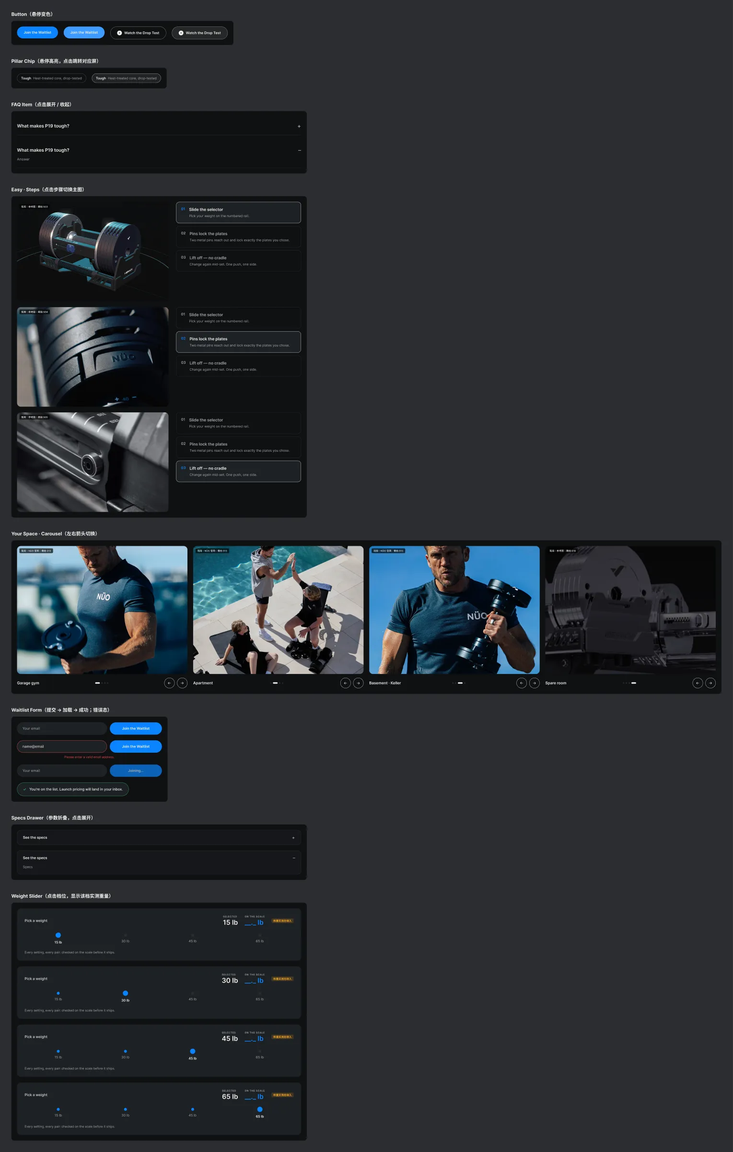
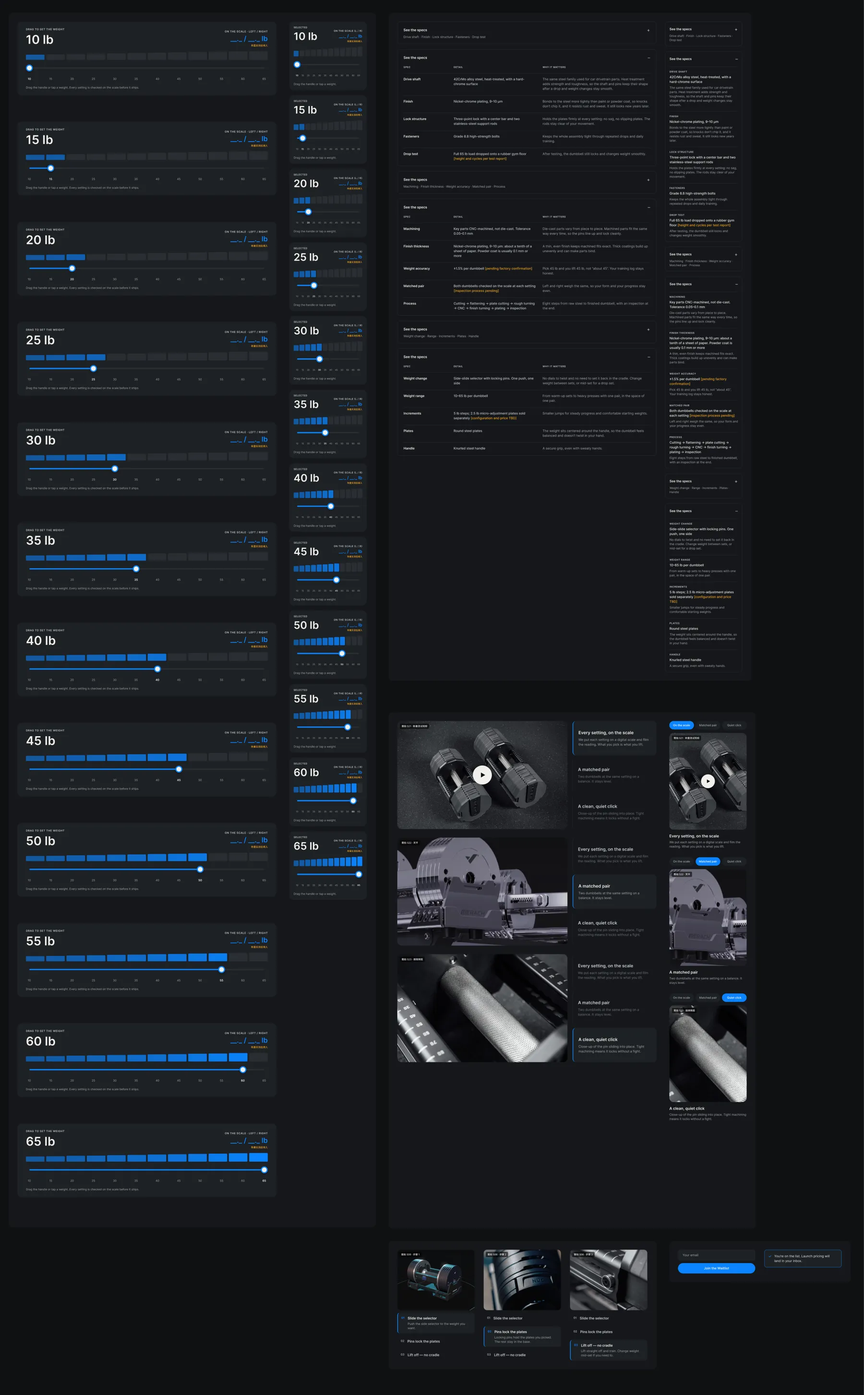
Explore V7: full-screen hero, sticky pillar nav, accurate gallery + drag slider, detailed specs, remove Your Space; add PDP asset list and shots S24–S31
Claude-Session: https://claude.ai/code/session_01RNRjNYdB2DmXKuzbHkJAw4

diff --git a/handoff.html b/handoff.html
@@ -38,38 +38,39 @@ blockquote{margin:12px 0;padding:8px 14px;border-left:3px solid var(--accent);ba
 .shell.one{grid-template-columns:minmax(0,1040px);justify-content:center}
 @media (max-width:900px){.shell{grid-template-columns:1fr}.toc{display:none}main{padding:24px 18px}}
 </style></head><body>
-<header class="top"><div class="in"><b>MERACH P19</b><a href="index.html" class="">总览</a><a href="product.html" class="">产品营销方案</a><a href="imc.html" class="">整合营销方案</a><a href="comp/" class="">对标竞品参数页</a><a href="explore.html" class="">Explore 教育页</a><a href="handoff.html" class="on">开发需求</a><a href="market.html" class="">市场容量</a></div></header><div class="shell one"><main><h1>Explore 教育页 · 开发需求说明（V6）</h1>
-<p class="meta">版本 2026-11-18（V6 深石墨 · 可交互） · 设计稿 <a href="https://www.figma.com/design/44z4t0SOMdf8TVVw1gtSZz/%E6%97%A0%E6%B0%A7P19?node-id=68-608" target="_blank" rel="noopener">PC</a> / <a href="https://www.figma.com/design/44z4t0SOMdf8TVVw1gtSZz/%E6%97%A0%E6%B0%A7P19?node-id=70-679" target="_blank" rel="noopener">Mobile</a> · 可点击原型 <a href="https://www.figma.com/proto/44z4t0SOMdf8TVVw1gtSZz/%E6%97%A0%E6%B0%A7P19?node-id=68-608&amp;starting-point-node-id=68%3A608" target="_blank" rel="noopener">PC</a> / <a href="https://www.figma.com/proto/44z4t0SOMdf8TVVw1gtSZz/%E6%97%A0%E6%B0%A7P19?node-id=70-679&amp;starting-point-node-id=70%3A679" target="_blank" rel="noopener">Mobile</a>。图片左上角黑色标签为拍摄编号，开发时不要还原。</p>
+<header class="top"><div class="in"><b>MERACH P19</b><a href="index.html" class="">总览</a><a href="product.html" class="">产品营销方案</a><a href="imc.html" class="">整合营销方案</a><a href="comp/" class="">对标竞品参数页</a><a href="explore.html" class="">Explore 教育页</a><a href="handoff.html" class="on">开发需求</a><a href="market.html" class="">市场容量</a></div></header><div class="shell one"><main><h1>Explore 教育页 · 开发需求说明（V7）</h1>
+<p class="meta">版本 2026-11-18（V7 深石墨 · 可交互 · 二轮） · 设计稿 <a href="https://www.figma.com/design/44z4t0SOMdf8TVVw1gtSZz/%E6%97%A0%E6%B0%A7P19?node-id=68-608" target="_blank" rel="noopener">PC</a> / <a href="https://www.figma.com/design/44z4t0SOMdf8TVVw1gtSZz/%E6%97%A0%E6%B0%A7P19?node-id=70-679" target="_blank" rel="noopener">Mobile</a> · 可点击原型 <a href="https://www.figma.com/proto/44z4t0SOMdf8TVVw1gtSZz/%E6%97%A0%E6%B0%A7P19?node-id=68-608&amp;starting-point-node-id=68%3A608" target="_blank" rel="noopener">PC</a> / <a href="https://www.figma.com/proto/44z4t0SOMdf8TVVw1gtSZz/%E6%97%A0%E6%B0%A7P19?node-id=70-679&amp;starting-point-node-id=70%3A679" target="_blank" rel="noopener">Mobile</a>。图片左上角黑色标签为拍摄编号，开发时不要还原。</p>
 <h2>一、基本信息</h2>
-<ul><li>页面：P19 Explore 教育页，独立站单页，8 屏 + 等待名单 + 页头页脚。工艺数值统一放在各屏“See the specs”折叠中。</li>
+<ul><li>页面：P19 Explore 教育页，独立站单页，7 屏 + 等待名单 + 页头页脚。工艺数值统一放在各屏“See the specs”折叠中。</li>
 <li>设计基准：PC 1440 宽，内容区 1200，左右边距 120；Mobile 390 宽，左右边距 16。</li>
 <li>断点建议：≥1024 用 PC 布局；768–1023 内容区自适应、并排卡片降为 2 列；&lt;768 用 Mobile 布局。</li>
 <li>屏占比口径：PC 按视口 1440×900 计 1 屏，Mobile 按 390×844 计 1 屏。</li>
 <li>英文主张 Built to Take the Drop 已确定；页面按“主张 → 三支柱”组织。</li></ul>
 <h2>二、屏占比</h2>
-<p>首屏（Header + Hero + 锚点栏）PC 正好 1 屏、Mobile 0.96 屏。Accurate 与 Easy 承载演示与交互，允许超过 1 屏（Easy 约 1.5 屏，如需压缩可将 Drop Set 模块移入 Power Users 前）。</p>
-<div class="tw"><table><thead><tr><th>模块</th><th>锚点</th><th>PC 高度 px</th><th>PC 屏占比</th><th>Mobile 高度 px</th><th>Mobile 屏占比</th></tr></thead><tbody><tr><td>Header（广告位 + 导航）</td><td>—</td><td>101</td><td>0.11</td><td>89</td><td>0.11</td></tr><tr><td>Screen 1 · Hero + 锚点栏</td><td>#top</td><td>799</td><td>0.89（与 Header 合计 1.00）</td><td>724</td><td>0.86（与 Header 合计 0.96）</td></tr><tr><td>Screen 2 · Durable（耐摔）</td><td>#durable</td><td>903</td><td>1.00</td><td>736</td><td>0.87</td></tr><tr><td>Screen 3 · Accurate（高精度）</td><td>#accurate</td><td>1156</td><td>1.28</td><td>883</td><td>1.05</td></tr><tr><td>Screen 4 · Easy（易用 + 细节 + Drop Set）</td><td>#easy</td><td>1357</td><td>1.51</td><td>1053</td><td>1.25</td></tr><tr><td>Screen 5 · How It's Made（工艺短片）</td><td>#made</td><td>940</td><td>1.04</td><td>443</td><td>0.52</td></tr><tr><td>Screen 6 · Power Users</td><td>#power-users</td><td>862</td><td>0.96</td><td>673</td><td>0.80</td></tr><tr><td>Screen 7 · Your Space（P1a）</td><td>#your-space</td><td>792</td><td>0.88</td><td>816</td><td>0.97</td></tr><tr><td>Screen 8 · FAQ</td><td>#faq</td><td>752</td><td>0.84</td><td>667</td><td>0.79</td></tr><tr><td>Waitlist</td><td>#waitlist</td><td>396</td><td>0.44</td><td>299</td><td>0.35</td></tr><tr><td>Footer</td><td>—</td><td>260</td><td>0.29</td><td>213</td><td>0.25</td></tr><tr><td><b>合计</b></td><td></td><td><b>8318</b></td><td><b>9.24 屏</b></td><td><b>6596</b></td><td><b>7.82 屏</b></td></tr></tbody></table></div>
+<p>首屏全屏：Header + Hero 合计正好 1 屏（PC 1440×900、Mobile 390×844）。Header 含支柱导航，支柱导航吸顶。Accurate 与 Easy 承载演示与交互，允许超过 1 屏。</p>
+<div class="tw"><table><thead><tr><th>模块</th><th>锚点</th><th>PC 高度 px</th><th>PC 屏占比</th><th>Mobile 高度 px</th><th>Mobile 屏占比</th></tr></thead><tbody><tr><td>Header（广告位 + 导航 + 支柱导航，吸顶）</td><td>—</td><td>165</td><td>0.18</td><td>142</td><td>0.17</td></tr><tr><td>Screen 1 · Hero（全屏）</td><td>#top</td><td>735</td><td>0.82（与 Header 合计 1.00）</td><td>702</td><td>0.83（与 Header 合计 1.00）</td></tr><tr><td>Screen 2 · Durable（耐摔）</td><td>#durable</td><td>945</td><td>1.05</td><td>788</td><td>0.93</td></tr><tr><td>Screen 3 · Accurate（高精度）</td><td>#accurate</td><td>1372</td><td>1.52</td><td>1361</td><td>1.61</td></tr><tr><td>Screen 4 · Easy（易用 + 细节 + Drop Set）</td><td>#easy</td><td>1399</td><td>1.55</td><td>1218</td><td>1.44</td></tr><tr><td>Screen 5 · How It’s Made（工艺短片）</td><td>#made</td><td>940</td><td>1.04</td><td>443</td><td>0.52</td></tr><tr><td>Screen 6 · Power Users</td><td>#power-users</td><td>862</td><td>0.96</td><td>673</td><td>0.80</td></tr><tr><td>Screen 7 · FAQ</td><td>#faq</td><td>752</td><td>0.84</td><td>667</td><td>0.79</td></tr><tr><td>Waitlist</td><td>#waitlist</td><td>396</td><td>0.44</td><td>297</td><td>0.35</td></tr><tr><td>Footer</td><td>—</td><td>260</td><td>0.29</td><td>213</td><td>0.25</td></tr><tr><td><b>合计</b></td><td></td><td><b>7826</b></td><td><b>8.70 屏</b></td><td><b>6504</b></td><td><b>7.71 屏</b></td></tr></tbody></table></div>
 <h2>三、全局规范</h2>
-<h3>颜色</h3><div class="tw"><table><thead><tr><th>用途</th><th>色值</th><th>使用位置</th></tr></thead><tbody><tr><td>页面底</td><td>#0F1012</td><td>Hero、Tough、Precise、Your Space、FAQ</td></tr><tr><td>区块底</td><td>#16181B</td><td>锚点栏、Craft、Easy、Details</td></tr><tr><td>卡片</td><td>#1E2125</td><td>证据卡、对比图、标准卡</td></tr><tr><td>分隔线</td><td>#2A2E33</td><td>卡片描边、三栏分隔</td></tr><tr><td>主文字</td><td>#F1F0EC</td><td>标题、强调</td></tr><tr><td>辅助文字</td><td>#A3A7AD</td><td>正文、说明</td></tr><tr><td>钢灰</td><td>#C7CCD2</td><td>Eyebrow、图形线条</td></tr><tr><td>主色</td><td>#0A84FF</td><td>按钮、高亮节点、“你得到什么”标签</td></tr><tr><td>待确认标记</td><td>#F5A524</td><td>仅设计稿使用，上线前删除</td></tr></tbody></table></div>
+<h3>颜色</h3><div class="tw"><table><thead><tr><th>用途</th><th>色值</th><th>使用位置</th></tr></thead><tbody><tr><td>页面底</td><td>#0F1012</td><td>Hero、Durable、Accurate、FAQ</td></tr><tr><td>区块底</td><td>#16181B</td><td>支柱导航、规格抽屉、Easy</td></tr><tr><td>卡片</td><td>#1E2125</td><td>证据卡、滑块面板、画廊当前标签</td></tr><tr><td>分隔线</td><td>#2A2E33</td><td>卡片描边、三栏分隔</td></tr><tr><td>主文字</td><td>#F1F0EC</td><td>标题、强调</td></tr><tr><td>辅助文字</td><td>#A3A7AD</td><td>正文、说明</td></tr><tr><td>钢灰</td><td>#C7CCD2</td><td>Eyebrow、图形线条</td></tr><tr><td>主色</td><td>#0A84FF</td><td>按钮、滑块、当前标签与配重片高亮</td></tr><tr><td>待确认标记</td><td>#F5A524</td><td>仅设计稿使用，上线前删除</td></tr></tbody></table></div>
 <h3>字号</h3><p>设计稿字体为 Inter；如独立站已有品牌字体，以站内字体为准，字号与字重按下表。</p><div class="tw"><table><thead><tr><th>层级</th><th>PC</th><th>Mobile</th></tr></thead><tbody><tr><td>H1</td><td>72 / Semi Bold，行高 102%</td><td>44 / Semi Bold</td></tr><tr><td>H2</td><td>46 / Semi Bold</td><td>30 / Semi Bold</td></tr><tr><td>Eyebrow</td><td>12 / Semi Bold，全大写，字距 14%</td><td>11 / Semi Bold</td></tr><tr><td>正文</td><td>18 / Regular，行高 155%</td><td>15 / Regular</td></tr><tr><td>卡片标题</td><td>17 / Semi Bold</td><td>14 / Semi Bold</td></tr><tr><td>说明</td><td>14 / Regular</td><td>12–13 / Regular</td></tr><tr><td>按钮</td><td>15 / Semi Bold，高 52，全圆角</td><td>同 PC，通栏</td></tr></tbody></table></div>
 <p>圆角：图片与卡片 12–16，按钮与胶囊全圆角。屏与屏之间不留间距，靠 #0F1012 / #16181B 交替区分。</p>
 <h2>四、部件说明</h2>
-<div class="tw"><table><thead><tr><th>部件</th><th>位置</th><th>PC</th><th>Mobile</th><th>交互与状态</th></tr></thead><tbody><tr><td>顶部广告位 / 导航栏</td><td>全站</td><td>复用现有 Header</td><td>复用移动端 Header</td><td>不新开发</td></tr><tr><td>Hero</td><td>Screen 1</td><td>左人物 720×735 + 右产品静物 720×735，左侧渐变压暗，文案左下</td><td>人物与产品左右各半 195×260，文案下置</td><td>见交互清单</td></tr><tr><td>锚点栏</td><td>Hero 下方</td><td>高 64，7 个锚点 + 上市时间 + Mini CTA</td><td>高 53，横滑胶囊</td><td>吸顶、滚动高亮、平滑滚动</td></tr><tr><td>视频位 + 弹窗</td><td>Screen 2、3、5、6</td><td>16:9 视频 792×446 / 1200×540；竖版 224×398</td><td>358×201；竖版 180×320；全屏弹窗</td><td>点击播放，关闭停止</td></tr><tr><td>证据卡</td><td>Screen 2、3</td><td>右侧两张产品图卡</td><td>两列</td><td>静态</td></tr><tr><td>See the specs（参数折叠）</td><td>Screen 2、3、4</td><td>通栏折叠条</td><td>通栏</td><td>点击展开 / 收起</td></tr><tr><td>重量选择器</td><td>Screen 3</td><td>4 档点击，显示所选重量与秤上实测</td><td>4 个胶囊</td><td>点击切换；实测值待填</td></tr><tr><td>步骤演示</td><td>Screen 4</td><td>主图 640×420 + 右侧 3 步</td><td>主图 + 纵向 3 步</td><td>点击切换主图</td></tr><tr><td>细节卡</td><td>Screen 4</td><td>3 张产品图 384×160</td><td>横滑 200×140</td><td>静态</td></tr><tr><td>Drop Set 模块</td><td>Screen 4</td><td>卡片内 3 张 140×110</td><td>文字卡</td><td>注释必须保留</td></tr><tr><td>工艺标签</td><td>Screen 5</td><td>3 个胶囊</td><td>—</td><td>静态</td></tr><tr><td>内测用户视频卡</td><td>Screen 6</td><td>5 张 9:16 卡片 + 姓名 / 年限 / 原话</td><td>横滑 4 张</td><td>点击竖版弹窗播放；FTC 披露</td></tr><tr><td>轮播</td><td>Screen 7</td><td>720×540，箭头 + 圆点</td><td>横滑 280×360</td><td>箭头切换 / 拖拽</td></tr><tr><td>FAQ</td><td>Screen 8</td><td>宽 1200</td><td>通栏</td><td>手风琴；FAQPage 结构化数据</td></tr><tr><td>Waitlist 表单</td><td>Waitlist</td><td>输入框 + 按钮横排</td><td>上下堆叠</td><td>默认 / 加载 / 成功 / 错误</td></tr><tr><td>Footer</td><td>全站</td><td>复用</td><td>复用</td><td>不新开发</td></tr></tbody></table></div>
+<div class="tw"><table><thead><tr><th>部件</th><th>位置</th><th>PC</th><th>Mobile</th><th>交互与状态</th></tr></thead><tbody><tr><td>顶部广告位 / 导航栏</td><td>全站</td><td>复用现有 Header</td><td>复用移动端 Header</td><td>随页面滚走</td></tr><tr><td>支柱导航</td><td>Header 下方</td><td>高 64，6 个锚点 + 上市时间 + Mini CTA</td><td>高 53，横滑胶囊</td><td>吸顶（sticky）、滚动高亮、平滑滚动</td></tr><tr><td>Hero</td><td>Screen 1</td><td>高 = 100vh − Header；人物 / 产品各 720 宽铺满；左侧渐变，文案垂直居中</td><td>高 = 100vh − Header；人物 / 产品各 195 宽铺满；底部渐变，文案压在底部</td><td>一个主按钮 + 上市时间</td></tr><tr><td>视频位 + 弹窗</td><td>Screen 2、3、5、6</td><td>16:9；竖版 224×398</td><td>全屏弹窗</td><td>点击播放，关闭停止</td></tr><tr><td>证据卡</td><td>Screen 2</td><td>右侧两张产品图卡</td><td>两列</td><td>静态</td></tr><tr><td>精度画廊（Accurate Proof Gallery）</td><td>Screen 3</td><td>左大图 788×500 + 右侧 3 张标签卡</td><td>标签 + 大图 358×448 + 说明</td><td>点击切换；Mobile 可左右滑动</td></tr><tr><td>拖拽重量滑块（Weight Drag Slider）</td><td>Screen 3</td><td>宽 1200；大数字 + 左 / 右实测读数 + 12 段配重片 + 滑轨 + 刻度</td><td>宽 358，同结构</td><td>拖拽 / 点击刻度，吸附 5 lb</td></tr><tr><td>See the specs（规格抽屉）</td><td>Screen 2、3、4</td><td>收起时显示规格项目名；展开为三列表格</td><td>展开为纵向堆叠</td><td>点击展开 / 收起</td></tr><tr><td>步骤演示</td><td>Screen 4</td><td>主图 640×420 + 右侧 3 步</td><td>主图 358×280 + 纵向 3 步</td><td>点击切换；Mobile 可滑动</td></tr><tr><td>细节卡</td><td>Screen 4</td><td>3 张产品图 384×160</td><td>横滑 200×140</td><td>静态</td></tr><tr><td>Drop Set 模块</td><td>Screen 4</td><td>卡片内 3 张 140×110</td><td>文字卡</td><td>注释必须保留</td></tr><tr><td>工艺标签</td><td>Screen 5</td><td>3 个胶囊</td><td>—</td><td>静态</td></tr><tr><td>内测用户视频卡</td><td>Screen 6</td><td>5 张 9:16 卡片</td><td>横滑 4 张</td><td>点击竖版弹窗播放；FTC 披露</td></tr><tr><td>FAQ</td><td>Screen 7</td><td>宽 1200</td><td>通栏</td><td>手风琴；FAQPage 结构化数据</td></tr><tr><td>Waitlist 表单</td><td>Waitlist</td><td>输入框 + 按钮横排</td><td>上下堆叠</td><td>默认 / 加载 / 成功 / 错误</td></tr><tr><td>Footer</td><td>全站</td><td>复用</td><td>复用</td><td>不新开发</td></tr></tbody></table></div>
 <h2>五、交互清单</h2>
-<div class="tw"><table><thead><tr><th>元素</th><th>交互</th></tr></thead><tbody><tr><td>Join the Waitlist（首屏、锚点栏）</td><td>悬停变色；点击滚动到 #waitlist</td></tr><tr><td>Watch the Drop Test / 各视频播放按钮</td><td>点击弹窗播放：跌落测试、称重测试、工厂短片、内测用户竖版视频；Mobile 为全屏</td></tr><tr><td>三个胶囊 Durable / Accurate / Easy</td><td>点击滚动到对应屏</td></tr><tr><td>锚点栏</td><td>吸顶；滚动高亮；点击平滑滚动</td></tr><tr><td>See the specs</td><td>点击展开 / 收起该屏参数（工艺数值只在此出现）</td></tr><tr><td>重量选择器</td><td>点击 15 / 30 / 45 / 65 lb，显示该档实测重量（称重实测后填入）</td></tr><tr><td>Easy 步骤</td><td>点击 01 / 02 / 03 切换主图</td></tr><tr><td>Your Space 轮播</td><td>箭头切换 4 张；Mobile 横滑</td></tr><tr><td>FAQ 手风琴</td><td>默认展开第 1 条，同时只展开 1 条</td></tr><tr><td>Waitlist 表单</td><td>提交 → 加载 → 成功；错误态</td></tr></tbody></table></div>
+<div class="tw"><table><thead><tr><th>元素</th><th>交互</th></tr></thead><tbody><tr><td>Join the Waitlist（首屏、吸顶导航）</td><td>悬停变色；点击滚动到 #waitlist</td></tr><tr><td>支柱导航（吸顶）</td><td>position: sticky; top: 0，滚动后一直置顶；当前所在屏高亮；点击平滑滚动。锚点：Durable / Accurate / Easy / How It’s Made / Power Users / FAQ</td></tr><tr><td>视频播放按钮</td><td>点击弹窗播放：跌落测试、称重测试、工厂短片、内测用户竖版视频；Mobile 为全屏</td></tr><tr><td>精度画廊</td><td>PC：点击右侧三张标签卡切换左侧大图；Mobile：点击标签或左右滑动切换；称重卡带播放按钮</td></tr><tr><td>拖拽重量滑块</td><td>拖动把手或点击刻度，10–65 lb 每 5 lb 一档，吸附到档位；大数字、配重片高亮、左 / 右实测读数同步变化（实测值称重后填入）</td></tr><tr><td>See the specs</td><td>点击展开 / 收起；展开为“规格 / 参数 / 对用户意味着什么”，PC 三列表格，Mobile 纵向堆叠；三屏各 5 行</td></tr><tr><td>Easy 步骤</td><td>PC 点击 01 / 02 / 03 切换主图；Mobile 点击步骤或左右滑动图片切换</td></tr><tr><td>FAQ 手风琴</td><td>默认展开第 1 条，同时只展开 1 条</td></tr><tr><td>Waitlist 表单</td><td>提交 → 加载 → 成功；错误态（PC 与 Mobile 一致）</td></tr></tbody></table></div>
 <p>所有组件的状态（悬停、展开、切换、表单流程）已在 Figma 组件区全部展开，可直接在原型中点击体验：</p>
-<img src="assets/explore-v5-components.webp" alt="Explore V5 交互组件与状态" loading="lazy">
+<img src="assets/explore-v5-components.webp" alt="Explore V7 交互组件与状态" loading="lazy">
 <h2>六、图片与视频位</h2>
 <p>请按下表尺寸出 2 倍图，格式 WebP；视频提供 MP4（H.264）与封面图。当前全部为占位图，上线前替换为实拍。</p>
-<div class="tw"><table><thead><tr><th>图位（拍摄编号）</th><th>PC 尺寸</th><th>Mobile 尺寸</th><th>说明</th></tr></thead><tbody><tr><td>hero 人物（S18）</td><td>720×735</td><td>195×260</td><td>人物使用场景</td></tr><tr><td>hero 产品静物（S20）</td><td>720×735</td><td>195×260</td><td>居家空间中的 P19</td></tr><tr><td>跌落测试（S06）</td><td>792×446 + MP4</td><td>358×201</td><td>正式跌落测试视频</td></tr><tr><td>称重测试（S21）</td><td>792×446 + MP4</td><td>358×201</td><td>各档上秤，读数特写</td></tr><tr><td>天平（S22）/ 插销微距（S23）</td><td>384×140</td><td>173×110</td><td>两只等重；插销慢动作</td></tr><tr><td>证据卡（S07、S15）</td><td>384×140</td><td>173×110</td><td>爆炸图；电镀表面</td></tr><tr><td>步骤（S03–S05）</td><td>640×420 ×3</td><td>358×220</td><td>建议静音循环短视频</td></tr><tr><td>细节（S14、S15）</td><td>384×160 ×3</td><td>200×140 ×3</td><td>握把、圆形配重、档位</td></tr><tr><td>工厂短片（S17）</td><td>1200×540 + MP4</td><td>358×201</td><td>15 秒：机加工、热处理、电镀</td></tr><tr><td>内测用户（S19）</td><td>224×398 封面 + 9:16 MP4 ×5</td><td>180×320 ×4</td><td>由内测用户提供</td></tr><tr><td>空间（S13、S18）</td><td>720×540 ×4</td><td>280×360 ×4</td><td>居家空间</td></tr><tr><td>waitlist bg</td><td>1440×396</td><td>390×299</td><td>文字区压暗</td></tr></tbody></table></div>
+<div class="tw"><table><thead><tr><th>图位（拍摄编号）</th><th>PC 尺寸</th><th>Mobile 尺寸</th><th>说明</th></tr></thead><tbody><tr><td>hero 人物（S18）</td><td>720×735</td><td>195×702</td><td>人物使用场景，竖向裁切需保留人物主体</td></tr><tr><td>hero 产品静物（S20）</td><td>720×735</td><td>195×702</td><td>居家空间中的 P19</td></tr><tr><td>跌落测试（S06）</td><td>792×446 + MP4</td><td>358×201</td><td>正式跌落测试视频</td></tr><tr><td>称重测试（S21）</td><td>788×500 + MP4</td><td>358×448</td><td>各档上秤，读数特写</td></tr><tr><td>天平（S22）</td><td>788×500</td><td>358×448</td><td>两只等重，天平水平</td></tr><tr><td>插销微距（S23）</td><td>788×500 + MP4</td><td>358×448</td><td>插销慢动作，同期收音</td></tr><tr><td>证据卡（S07、S15）</td><td>384×140</td><td>173×110</td><td>爆炸图；电镀表面</td></tr><tr><td>步骤（S03–S05）</td><td>640×420 ×3</td><td>358×280 ×3</td><td>建议静音循环短视频</td></tr><tr><td>细节（S14、S15）</td><td>384×160 ×3</td><td>200×140 ×3</td><td>握把、圆形配重、档位</td></tr><tr><td>工厂短片（S17）</td><td>1200×540 + MP4</td><td>358×201</td><td>15 秒：机加工、热处理、电镀</td></tr><tr><td>内测用户（S19）</td><td>224×398 封面 + 9:16 MP4 ×5</td><td>180×320 ×4</td><td>由内测用户提供</td></tr><tr><td>waitlist bg</td><td>1440×396</td><td>390×297</td><td>文字区压暗</td></tr></tbody></table></div>
 <h2>七、待确认</h2>
-<ul><li>重量精度 ±1.5%：待工厂确认实测数据，未确认前 Screen 4 与 FAQ 相关内容不得上线。</li>
+<ul><li>重量精度 ±1.5%：待工厂确认实测数据，未确认前 Screen 3 规格抽屉与 FAQ 相关内容不得上线。</li>
 <li>跌落测试高度与次数：待正式报告，确认后补入 Screen 2 与视频弹窗说明。</li>
 <li>质保年限与是否覆盖跌落：待确认后补入 FAQ。</li>
 <li>Waitlist 对接的邮件列表与早鸟权益文案：待定。</li>
 <li>Power Users 视频：内测用户提供后替换第 6 屏占位，需肖像与内容授权、FTC 披露。</li>
-<li>重量选择器的实测数值：称重测试完成后填入。</li></ul>
+<li>拖拽滑块的实测数值（每档左 / 右两只）：称重测试完成后填入。</li>
+<li>规格抽屉中橙色方括号内容（跌落高度与次数、配对检验流程、微调片配置与价格）：确认后替换。</li></ul>
 <h2>八、标注稿</h2>
 <p>红色虚线为每屏底线，黄色卡片为每屏的屏占比、部件与交互说明。</p>
-<img src="assets/explore-handoff-annotated.webp" alt="Explore V5 PC 与 Mobile 标注稿" loading="lazy">
+<img src="assets/explore-handoff-annotated.webp" alt="Explore V7 PC 与 Mobile 标注稿" loading="lazy">
 </main></div></body></html>

diff --git a/product.html b/product.html
@@ -78,6 +78,7 @@ id="toc-六explore-教育页与拍摄清单">五、Explore
 <li><a href="#c5">差异化定位</a>：明确与 Snode、Nike、REP 的主要差别在电镀；三根支撑杆与 REP 相同，不作独有卖点；补充对 Snode 的底座工艺优势；表述统一为“按汽车零部件的工艺标准制造”；修复每磅价格显示错误。</li>
 <li><a href="#c2">FABE</a>：与卖点总表重复，已并入总表（保留对外英文与竞品对比），原 FABE 章节删除。</li>
 <li><a href="#persona-size">人群规模</a>：新增“大圈套小圈”图与估算（11/18）；同步新增对外用语参考、称重 / 天平 / 微距 / 产品静物 / Power Users 等证据与拍摄项，Explore 教育页更新为 V6。</li>
+<li><a href="#pdp-assets">产品页物料</a>：按卖点总表列出产品页需要的图片、视频与信息图，标明可复用的教育页素材；拍摄清单补充 S24–S31（11/18）。</li>
 <li><a href="#c7">待决策事项</a>：定价改为“$799 先上，$699 备用”；新增 5 项待确认。</li>
 </ol>
 <p>据此同步调整了导语、Slogan、KV、Pitch Deck、Evidence、物料清单与 Explore 教育页（Figma V5 深石墨可交互版）；英文主张确定为 Built to Take the Drop。</p>
@@ -715,19 +716,50 @@ mm；工序为下料—开平—割板—粗车—CNC—精车—电镀—检验
 </tr>
 </tbody>
 </table></div>
+
+<p id="pdp-assets"><strong>产品页物料（独立站产品页与 Amazon listing）</strong></p>
+<p>产品页以图片和短视频为主，文字只用于五点描述和规格表。下表按卖点总表逐行列出产品页需要的物料：能复用 Explore 教育页拍摄的直接复用，产品页特有的物料补进拍摄清单（S24–S31）。德国版所有信息图须出德语、kg 版本。</p>
+<div class="tw"><table>
+<thead><tr class="header"><th>卖点（用户得到什么）</th><th>产品页物料</th><th>复用教育页素材</th><th>需新增</th></tr></thead>
+<tbody>
+<tr><td>每次换重都顺滑；摔过之后也不卡（CNC 精加工）</td><td>卖点信息图 1 张 + 6–10 秒短视频</td><td>S17 工厂短片（剪 6–10 秒）、S23 插销微距</td><td><strong>S24</strong> 加工件白底微距（标注 CNC 加工面）</td></tr>
+<tr><td>核心部件摔后不变形（42CrMo + 热处理）</td><td>结构爆炸图 1 张（标注传动轴、插销、支撑杆）</td><td>S07 爆炸渲染图</td><td>—（S07 需另出白底、无背景版）</td></tr>
+<tr><td>不掉漆、不生锈，几年后依然如新（镍铬电镀）</td><td>表面特写 + 厚度示意信息图</td><td>S15 电镀与滚花特写</td><td><strong>S25</strong> 镀层厚度示意图（9–10 μm，约 1/10 张纸）</td></tr>
+<tr><td>大重量不下垂、不掉片（三点锁固）</td><td>满载持握图 1 张</td><td>S09 满载水平持握、S07 爆炸图</td><td>—</td></tr>
+<tr><td>单手一推，单侧一次换重（侧滑快调）</td><td>三步静态信息图 + 主图视频片段</td><td>S03–S05 三步动图、S16 换重教程</td><td><strong>S26</strong> 三步信息图（从 S03–S05 取帧，静态版供 Amazon 主图）</td></tr>
+<tr><td>握得稳，不晃不转（圆形配重 + 滚花握把）</td><td>握持特写 1 张</td><td>S15 滚花特写</td><td><strong>S27</strong> 手握哑铃特写（中性背景，突出握把与圆形配重）</td></tr>
+<tr><td>档位细（5 lb + 微调片）</td><td>重量档位图 1 张（10–65 lb 全部档位）</td><td>S14 档位与微调片特写</td><td><strong>S28</strong> 档位信息图（美国 lb 版、德国 kg 版）</td></tr>
+<tr><td>不小心摔了照样能用（跌落测试）</td><td>跌落视频剪辑版 + 静帧 1 张</td><td>S06 跌落测试视频</td><td>—（需从 S06 取一张清晰静帧）</td></tr>
+<tr><td>调到多少就是多少，两只一样重（重量精度）</td><td>称重信息图 + 天平图</td><td>S21 称重视频、S22 天平</td><td><strong>S29</strong> 各档位实测读数信息图（称重完成后出）</td></tr>
+</tbody></table></div>
+<p>卖点之外，产品页还需要以下通用物料：</p>
+<div class="tw"><table>
+<thead><tr class="header"><th>物料</th><th>说明</th><th>复用教育页素材</th><th>需新增</th></tr></thead>
+<tbody>
+<tr><td>主图（白底）</td><td>Amazon 主图须纯白底、产品占画面约 85%；独立站首图同款</td><td>S02 白底多角度</td><td>—</td></tr>
+<tr><td>360° 旋转</td><td>独立站产品图区</td><td>S20 白底 360°</td><td>—</td></tr>
+<tr><td>尺寸与占地</td><td>长宽高、底座占地面积、单只重量（lb / kg）</td><td>—</td><td><strong>S30</strong> 尺寸线框图（待工厂提供尺寸）</td></tr>
+<tr><td>包装清单（What’s in the box）</td><td>两只哑铃、两个底座、说明书；微调片是否随附待定</td><td>—</td><td><strong>S31</strong> 开箱平铺图</td></tr>
+<tr><td>场景图</td><td>人与产品的使用场景（居家空间、车库、公寓）</td><td>S18、S13、S10–S12</td><td>—</td></tr>
+<tr><td>主图视频（30–45 秒）</td><td>Amazon 主图视频、独立站产品图区第一个视频</td><td>品牌主视频 60s 剪辑版、S06、S03–S05</td><td>—（剪辑，不新拍）</td></tr>
+<tr><td>用户视频</td><td>独立站评价区上方；须 FTC 披露</td><td>S19 Power Users 竖版视频</td><td>—</td></tr>
+<tr><td>A+ / 产品详情长图</td><td>Amazon A+（970×600 横幅）、独立站详情区</td><td>上述信息图 + Explore 各屏大图</td><td>—（按 A+ 尺寸重新排版）</td></tr>
+<tr><td>规格表（文字）</td><td>独立站规格区、Amazon 五点描述</td><td>Explore 三个 See the specs 的规格内容</td><td>—</td></tr>
+<tr><td>质保与售后卡片</td><td>质保年限、跌落是否在保</td><td>—</td><td>待质保政策确定后出图</td></tr>
+</tbody></table></div>
+<p>产品页与教育页的区别：教育页以视频和交互讲清楚“为什么”；产品页以静态信息图让用户几秒看懂卖点。教育页的视频不能直接当产品页主图，需从中取静帧或另出信息图。</p>
 <h2 id="六explore-教育页与拍摄清单">五、Explore 教育页与拍摄清单</h2>
-<p>Explore 教育页 V6（PC 与 Mobile）已在 <a href="https://www.figma.com/design/44z4t0SOMdf8TVVw1gtSZz/%E6%97%A0%E6%B0%A7P19?node-id=68-608">Figma「无氧P19」文件</a> 完成，并做成可点击原型（<a href="https://www.figma.com/proto/44z4t0SOMdf8TVVw1gtSZz/%E6%97%A0%E6%B0%A7P19?node-id=68-608&amp;starting-point-node-id=68%3A608">PC</a> / <a href="https://www.figma.com/proto/44z4t0SOMdf8TVVw1gtSZz/%E6%97%A0%E6%B0%A7P19?node-id=70-679&amp;starting-point-node-id=70%3A679">Mobile</a>）。本版按 11/18 意见调整：语言改为生活化表达，参考竞品官网常用说法，工艺数值收进每屏“See the specs”；高精度改用称重视频、天平、插销微距与可点击的重量选择器；新增 Power Users 内测用户短视频屏；工艺屏改为 15 秒工厂短片；主视觉人与产品各半，其余以产品图为主。PC 全长 8,318px（约 9.2 屏），Mobile 全长 6,596px（约 7.8 屏），首屏均约 1 屏。屏占比、部件与交互说明见“开发需求”页。</p>
+<p>Explore 教育页 V7（PC 与 Mobile）已在 <a href="https://www.figma.com/design/44z4t0SOMdf8TVVw1gtSZz/%E6%97%A0%E6%B0%A7P19?node-id=68-608">Figma「无氧P19」文件</a> 完成，并做成可点击原型（<a href="https://www.figma.com/proto/44z4t0SOMdf8TVVw1gtSZz/%E6%97%A0%E6%B0%A7P19?node-id=68-608&amp;starting-point-node-id=68%3A608">PC</a> / <a href="https://www.figma.com/proto/44z4t0SOMdf8TVVw1gtSZz/%E6%97%A0%E6%B0%A7P19?node-id=70-679&amp;starting-point-node-id=70%3A679">Mobile</a>），PC 与 Mobile 交互一致。11/18 二轮调整：首屏全屏，只留一个主按钮；支柱导航吸顶；高精度屏改为大图画廊加拖拽滑块；删除 Your Space 屏；三个 See the specs 展开为“规格 / 参数 / 对用户意味着什么”的详细说明。PC 全长 7,826px（约 8.7 屏），Mobile 全长 6,504px（约 7.7 屏）。屏占比、部件与交互说明见“开发需求”页。</p>
 <div class="tw"><table>
 <thead><tr class="header"><th>屏</th><th>模块</th><th>图片 / 视频数</th><th>对应拍摄</th></tr></thead>
 <tbody>
-<tr><td>1</td><td>Hero：Built to Take the Drop.；人与产品各半；三个胶囊</td><td>2</td><td>S18、S20</td></tr>
-<tr><td>2</td><td>Durable：跌落测试视频 + 两张产品证据卡 + 参数折叠</td><td>3</td><td>S06、S07、S15</td></tr>
-<tr><td>3</td><td>Accurate：称重视频 + 天平 + 插销微距 + 重量选择器 + 参数折叠</td><td>3</td><td>S21、S22、S23</td></tr>
-<tr><td>4</td><td>Easy：三步演示 + 握把 / 圆形配重 / 档位 + Drop Set（P1b）</td><td>9</td><td>S03–S05、S10、S11、S14、S15</td></tr>
-<tr><td>5</td><td>How It's Made：15 秒工厂短片 + 三个工艺标签</td><td>1</td><td>S17</td></tr>
+<tr><td>1</td><td>Hero（全屏）：Built to Take the Drop.；人与产品各半；一个主按钮</td><td>2</td><td>S18、S20</td></tr>
+<tr><td>2</td><td>Durable：跌落测试视频 + 两张产品证据卡 + See the specs</td><td>3</td><td>S06、S07、S15</td></tr>
+<tr><td>3</td><td>Accurate：大图画廊（称重 / 天平 / 插销微距，点击或滑动切换）+ 拖拽重量滑块 + See the specs</td><td>3</td><td>S21、S22、S23</td></tr>
+<tr><td>4</td><td>Easy：三步演示 + 握把 / 圆形配重 / 档位 + Drop Set（P1b）+ See the specs</td><td>9</td><td>S03–S05、S10、S11、S14、S15</td></tr>
+<tr><td>5</td><td>How It’s Made：15 秒工厂短片 + 三个工艺标签</td><td>1</td><td>S17</td></tr>
 <tr><td>6</td><td>Power Users：内测用户竖版短视频 3–5 条</td><td>5</td><td>S19</td></tr>
-<tr><td>7</td><td>Your Space：居家空间轮播（P1a）</td><td>4</td><td>S13、S18</td></tr>
-<tr><td>8</td><td>FAQ（手风琴）+ 等待名单表单</td><td>1</td><td>—</td></tr>
+<tr><td>7</td><td>FAQ（手风琴）+ 等待名单表单</td><td>—</td><td>—</td></tr>
 </tbody>
 </table></div>
 <p><strong>拍摄与出图清单</strong></p>
@@ -855,12 +887,20 @@ mm；工序为下料—开平—割板—粗车—CNC—精车—电镀—检验
 <td>工艺讲解视频、Pitch Deck</td>
 <td>P0</td>
 </tr>
-<tr><td>S18</td><td>场景静帧 + 视频</td><td>P1a 居家健身空间：布置讲究的车库或空房间，P19 置于哑铃架，训练中放下哑铃的瞬间；突出镍铬电镀质感与空间氛围</td><td>主 KV、Explore 第 7 屏、P1a 素材</td><td>P0</td></tr>
+<tr><td>S18</td><td>场景静帧 + 视频</td><td>P1a 居家健身空间：布置讲究的车库或空房间，P19 置于哑铃架，训练中放下哑铃的瞬间；突出镍铬电镀质感与空间氛围</td><td>主 KV、Explore 首屏、产品页场景图、P1a 素材</td><td>P0</td></tr>
 <tr><td>S19</td><td>竖版视频</td><td>内测用户（Power Users）使用短视频 3–5 条，9:16，15–30 秒，真实训练场景</td><td>Explore Power Users 屏、社媒</td><td>P0</td></tr>
 <tr><td>S20</td><td>静帧 + 360°</td><td>产品静物：居家空间中的 P19（哑铃架、自然光）；白底 360° 旋转</td><td>Explore 各屏、产品页、Amazon</td><td>P0</td></tr>
 <tr><td>S21</td><td>视频</td><td>称重测试：各档位上秤，读数特写，标称与实测并排</td><td>Explore 高精度屏、测评素材</td><td>P0</td></tr>
 <tr><td>S22</td><td>静帧 / 视频</td><td>天平：两只同重量哑铃保持水平</td><td>Explore 高精度屏</td><td>P1</td></tr>
 <tr><td>S23</td><td>微距视频</td><td>插销滑入孔位慢动作，同期收音</td><td>Explore 高精度屏、广告切片</td><td>P1</td></tr>
+<tr><td>S24</td><td>微距静帧</td><td>白底：CNC 加工件（传动轴、插销、选择器）特写，可标注加工面</td><td>产品页卖点信息图、A+</td><td>P0</td></tr>
+<tr><td>S25</td><td>信息图</td><td>镀层厚度示意：9–10 μm，约 1/10 张纸（只讲自身数据）</td><td>产品页、Amazon 主图</td><td>P1</td></tr>
+<tr><td>S26</td><td>信息图</td><td>换重三步静态版（取 S03–S05 帧）</td><td>Amazon 主图、产品页</td><td>P0</td></tr>
+<tr><td>S27</td><td>静帧</td><td>手握哑铃特写，中性背景，突出滚花握把与圆形配重</td><td>产品页、A+</td><td>P1</td></tr>
+<tr><td>S28</td><td>信息图</td><td>重量档位图：10–65 lb 全部档位（美国 lb 版、德国 kg 版）</td><td>Amazon 主图、产品页</td><td>P0</td></tr>
+<tr><td>S29</td><td>信息图</td><td>各档位实测读数（左 / 右两只），称重完成后出</td><td>产品页、Amazon 主图、测评</td><td>P0</td></tr>
+<tr><td>S30</td><td>线框图</td><td>尺寸图：长宽高、底座占地、单只重量（lb / kg）</td><td>Amazon 主图、产品页</td><td>P0</td></tr>
+<tr><td>S31</td><td>平铺静帧</td><td>开箱平铺：两只哑铃、两个底座、说明书（微调片如随附一并摆放）</td><td>Amazon 主图、产品页</td><td>P0</td></tr>
 </tbody>
 </table></div>
 <p>所有拍摄须使用设计冻结版实物；S06

diff --git a/explore.html b/explore.html
@@ -39,23 +39,24 @@ blockquote{margin:12px 0;padding:8px 14px;border-left:3px solid var(--accent);ba
 @media (max-width:900px){.shell{grid-template-columns:1fr}.toc{display:none}main{padding:24px 18px}}
 </style></head><body>
 <header class="top"><div class="in"><b>MERACH P19</b><a href="index.html" class="">总览</a><a href="product.html" class="">产品营销方案</a><a href="imc.html" class="">整合营销方案</a><a href="comp/" class="">对标竞品参数页</a><a href="explore.html" class="on">Explore 教育页</a><a href="handoff.html" class="">开发需求</a><a href="market.html" class="">市场容量</a></div></header>
-<div class="shell one"><main><h1>Explore 教育页 · V6（11/18）</h1><p class="meta">深石墨、可交互。图片左上角标注需拍编号，上线前全部替换；Power Users 视频由内测用户提供后放入第 6 屏。</p>
+<div class="shell one"><main><h1>Explore 教育页 · V7（11/18 二轮）</h1><p class="meta">深石墨、可交互。图片左上角标注需拍编号，上线前全部替换；Power Users 视频由内测用户提供后放入第 6 屏。</p>
 <p>设计稿：<a href="https://www.figma.com/design/44z4t0SOMdf8TVVw1gtSZz/%E6%97%A0%E6%B0%A7P19?node-id=68-608" target="_blank" rel="noopener">Figma PC</a> · <a href="https://www.figma.com/design/44z4t0SOMdf8TVVw1gtSZz/%E6%97%A0%E6%B0%A7P19?node-id=70-679" target="_blank" rel="noopener">Figma Mobile</a>　可点击原型：<a href="https://www.figma.com/proto/44z4t0SOMdf8TVVw1gtSZz/%E6%97%A0%E6%B0%A7P19?node-id=68-608&amp;starting-point-node-id=68%3A608" target="_blank" rel="noopener">PC 原型</a> · <a href="https://www.figma.com/proto/44z4t0SOMdf8TVVw1gtSZz/%E6%97%A0%E6%B0%A7P19?node-id=70-679&amp;starting-point-node-id=70%3A679" target="_blank" rel="noopener">Mobile 原型</a>　屏占比与部件说明见 <a href="handoff.html">开发需求</a>。</p>
 <h2>本版调整</h2>
 <ul>
-<li><strong>语言收拢：</strong>标题与正文改为生活化表达，参考竞品官网常用说法（drop tested、fast weight changes、fully knurled handle、5 lb increments 等）；工艺数值统一收进每屏的“See the specs”。</li>
-<li><strong>高精度：</strong>由对比条形图改为称重测试视频、天平画面、插销微距与可点击的重量选择器。</li>
-<li><strong>新增 Power Users：</strong>内测用户竖版短视频，标注 Received P19 for testing。</li>
-<li><strong>画面：</strong>主视觉人与产品各半，其余以产品图为主；工艺屏改为 15 秒工厂短片；Details 并入 Easy。</li>
+<li><b>首屏全屏：</b>PC 与 Mobile 首屏都铺满一屏；只保留 Join the Waitlist 一个按钮，取消 Watch the Drop Test 和三支柱胶囊（与下方导航重复）。</li>
+<li><b>支柱导航吸顶：</b>Durable / Accurate / Easy 等锚点在滚动时一直置顶。</li>
+<li><b>高精度：</b>改为大图画廊（一次看一张大图，Mobile 也看得清）加拖拽重量滑块。</li>
+<li><b>See the specs：</b>工艺数值展开后讲清“参数是什么、对用户意味着什么”，每屏 5 行。</li>
+<li><b>删除 Your Space 屏；</b>Mobile 与 PC 交互一致（画廊、滑块、步骤、规格、表单均可点击）。</li>
 </ul>
 <h2>页面结构</h2>
-<div class="tw"><table><thead><tr><th>屏</th><th>模块</th><th>要点</th></tr></thead><tbody><tr><td>1</td><td>Hero</td><td>Built to Take the Drop.；主视觉人与产品各半；三个胶囊 Durable / Accurate / Easy</td></tr><tr><td>2</td><td>Durable · 耐摔</td><td>跌落测试视频（主证据）+ 两张产品证据卡；参数折叠在 See the specs</td></tr><tr><td>3</td><td>Accurate · 高精度</td><td>称重测试视频 + 天平 + 插销微距 + 可点击的重量选择器；参数折叠</td></tr><tr><td>4</td><td>Easy · 易用</td><td>可切换三步演示 + 握把 / 圆形配重 / 档位三张产品图 + Drop Set 小模块；参数折叠</td></tr><tr><td>5</td><td>How It's Made · 工艺</td><td>15 秒工厂短片（机加工、热处理、电镀）+ 三个工艺标签</td></tr><tr><td>6</td><td>Power Users · 内测用户</td><td>3–5 条竖版短视频，点击播放；FTC 披露</td></tr><tr><td>7</td><td>Your Space</td><td>居家空间轮播（P1a）+ “13 pairs → 1 pair”</td></tr><tr><td>8</td><td>FAQ + Waitlist</td><td>手风琴；等待名单表单</td></tr></tbody></table></div>
+<div class="tw"><table><thead><tr><th>屏</th><th>模块</th><th>要点</th></tr></thead><tbody><tr><td>1</td><td>Hero（全屏）</td><td>Built to Take the Drop.；人与产品各半铺满首屏；一个主按钮</td></tr><tr><td>—</td><td>支柱导航</td><td>吸顶；滚动高亮；点击平滑滚动</td></tr><tr><td>2</td><td>Durable · 耐摔</td><td>跌落测试视频 + 两张产品证据卡；See the specs（传动轴、表面、锁固结构、螺栓、跌落测试）</td></tr><tr><td>3</td><td>Accurate · 高精度</td><td>大图画廊（称重 / 天平 / 插销微距）+ 拖拽重量滑块；See the specs（加工、镀层厚度、重量精度、配对、工序）</td></tr><tr><td>4</td><td>Easy · 易用</td><td>三步演示 + 握把 / 圆形配重 / 档位 + Drop Set；See the specs（换重方式、重量范围、档位、配重片、握把）</td></tr><tr><td>5</td><td>How It’s Made · 工艺</td><td>15 秒工厂短片 + 三个工艺标签</td></tr><tr><td>6</td><td>Power Users · 内测用户</td><td>3–5 条竖版短视频，点击播放；FTC 披露</td></tr><tr><td>7</td><td>FAQ + Waitlist</td><td>手风琴；等待名单表单</td></tr></tbody></table></div>
 <h2>交互清单</h2>
-<div class="tw"><table><thead><tr><th>元素</th><th>交互</th></tr></thead><tbody><tr><td>Join the Waitlist（首屏、锚点栏）</td><td>悬停变色；点击滚动到 #waitlist</td></tr><tr><td>Watch the Drop Test / 各视频播放按钮</td><td>点击弹窗播放：跌落测试、称重测试、工厂短片、内测用户竖版视频；Mobile 为全屏</td></tr><tr><td>三个胶囊 Durable / Accurate / Easy</td><td>点击滚动到对应屏</td></tr><tr><td>锚点栏</td><td>吸顶；滚动高亮；点击平滑滚动</td></tr><tr><td>See the specs</td><td>点击展开 / 收起该屏参数（工艺数值只在此出现）</td></tr><tr><td>重量选择器</td><td>点击 15 / 30 / 45 / 65 lb，显示该档实测重量（称重实测后填入）</td></tr><tr><td>Easy 步骤</td><td>点击 01 / 02 / 03 切换主图</td></tr><tr><td>Your Space 轮播</td><td>箭头切换 4 张；Mobile 横滑</td></tr><tr><td>FAQ 手风琴</td><td>默认展开第 1 条，同时只展开 1 条</td></tr><tr><td>Waitlist 表单</td><td>提交 → 加载 → 成功；错误态</td></tr></tbody></table></div>
+<div class="tw"><table><thead><tr><th>元素</th><th>交互</th></tr></thead><tbody><tr><td>Join the Waitlist（首屏、吸顶导航）</td><td>悬停变色；点击滚动到 #waitlist</td></tr><tr><td>支柱导航（吸顶）</td><td>position: sticky; top: 0，滚动后一直置顶；当前所在屏高亮；点击平滑滚动。锚点：Durable / Accurate / Easy / How It’s Made / Power Users / FAQ</td></tr><tr><td>视频播放按钮</td><td>点击弹窗播放：跌落测试、称重测试、工厂短片、内测用户竖版视频；Mobile 为全屏</td></tr><tr><td>精度画廊</td><td>PC：点击右侧三张标签卡切换左侧大图；Mobile：点击标签或左右滑动切换；称重卡带播放按钮</td></tr><tr><td>拖拽重量滑块</td><td>拖动把手或点击刻度，10–65 lb 每 5 lb 一档，吸附到档位；大数字、配重片高亮、左 / 右实测读数同步变化（实测值称重后填入）</td></tr><tr><td>See the specs</td><td>点击展开 / 收起；展开为“规格 / 参数 / 对用户意味着什么”，PC 三列表格，Mobile 纵向堆叠；三屏各 5 行</td></tr><tr><td>Easy 步骤</td><td>PC 点击 01 / 02 / 03 切换主图；Mobile 点击步骤或左右滑动图片切换</td></tr><tr><td>FAQ 手风琴</td><td>默认展开第 1 条，同时只展开 1 条</td></tr><tr><td>Waitlist 表单</td><td>提交 → 加载 → 成功；错误态（PC 与 Mobile 一致）</td></tr></tbody></table></div>
 <p>所有组件状态已在 Figma 组件区展开：</p>
 <img src="assets/explore-v5-components.webp" alt="Explore 交互组件与状态" loading="lazy">
 <div style="display:grid;grid-template-columns:minmax(0,3fr) minmax(0,1fr);gap:24px;align-items:start">
-<figure style="margin:0"><figcaption><b>PC V6</b></figcaption><img src="assets/explore-pc-v3.webp" alt="P19 Explore 教育页 PC 整页截图" loading="lazy"></figure>
-<figure style="margin:0"><figcaption><b>Mobile V6</b></figcaption><img src="assets/explore-mobile.webp" alt="P19 Explore 教育页 Mobile 整页截图" loading="lazy"></figure>
+<figure style="margin:0"><figcaption><b>PC V7</b></figcaption><img src="assets/explore-pc-v3.webp" alt="P19 Explore 教育页 PC 整页截图" loading="lazy"></figure>
+<figure style="margin:0"><figcaption><b>Mobile V7</b></figcaption><img src="assets/explore-mobile.webp" alt="P19 Explore 教育页 Mobile 整页截图" loading="lazy"></figure>
 </div>
 </main></div></body></html>

diff --git a/index.html b/index.html
@@ -39,4 +39,4 @@ blockquote{margin:12px 0;padding:8px 14px;border-left:3px solid var(--accent);ba
 @media (max-width:900px){.shell{grid-template-columns:1fr}.toc{display:none}main{padding:24px 18px}}
 </style></head><body>
 <header class="top"><div class="in"><b>MERACH P19</b><a href="index.html" class="on">总览</a><a href="product.html" class="">产品营销方案</a><a href="imc.html" class="">整合营销方案</a><a href="comp/" class="">对标竞品参数页</a><a href="explore.html" class="">Explore 教育页</a><a href="handoff.html" class="">开发需求</a><a href="market.html" class="">市场容量</a></div></header>
-<div class="shell one"><main><style>.cards{display:grid;grid-template-columns:repeat(auto-fit,minmax(min(100%,300px),1fr));gap:14px;margin-top:24px}.card{display:block;border:1px solid var(--line);border-radius:8px;padding:18px;text-decoration:none;color:var(--fg)}.card:hover{border-color:var(--accent)}.card b{display:block;font-size:16px;margin-bottom:4px}.card span{font-size:13px;color:var(--muted)}</style><h1>MERACH P19 上市资料</h1><p class="meta">MRK-65LB 可调哑铃 · 2027 年 2 月美国、德国上市 · 独立站与 Amazon · 资料更新于 2026-11-06</p><div class="cards"><a class="card" href="comp/"><b>对标竞品参数页</b><span>16 款竞品竖排对比，价格与长度按重量归一化，含产品图、官网与质保原文链接</span></a><a class="card" href="product.html"><b>产品营销方案</b><span>人群、主张、卖点金字塔与卖点总表、Pitch Deck、Evidence、物料与拍摄清单</span></a><a class="card" href="imc.html"><b>整合营销方案</b><span>Big Idea、阶段划分、竞品打法、节奏表、Media Plan、广告策略、Campaign Playbook</span></a><a class="card" href="explore.html"><b>Explore 教育页</b><span>V6：PC 与 Mobile 截图、原型链接、交互清单</span></a><a class="card" href="handoff.html"><b>Explore 开发需求</b><span>屏占比、全局规范、部件交互说明、图片尺寸清单</span></a><a class="card" href="market.html"><b>线上市场容量</b><span>TAM / SAM / SOM 测算，首年 1 万对目标评估</span></a></div></main></div></body></html>
+<div class="shell one"><main><style>.cards{display:grid;grid-template-columns:repeat(auto-fit,minmax(min(100%,300px),1fr));gap:14px;margin-top:24px}.card{display:block;border:1px solid var(--line);border-radius:8px;padding:18px;text-decoration:none;color:var(--fg)}.card:hover{border-color:var(--accent)}.card b{display:block;font-size:16px;margin-bottom:4px}.card span{font-size:13px;color:var(--muted)}</style><h1>MERACH P19 上市资料</h1><p class="meta">MRK-65LB 可调哑铃 · 2027 年 2 月美国、德国上市 · 独立站与 Amazon · 资料更新于 2026-11-06</p><div class="cards"><a class="card" href="comp/"><b>对标竞品参数页</b><span>16 款竞品竖排对比，价格与长度按重量归一化，含产品图、官网与质保原文链接</span></a><a class="card" href="product.html"><b>产品营销方案</b><span>人群、主张、卖点金字塔与卖点总表、Pitch Deck、Evidence、物料（含产品页物料）与拍摄清单</span></a><a class="card" href="imc.html"><b>整合营销方案</b><span>Big Idea、阶段划分、竞品打法、节奏表、Media Plan、广告策略、Campaign Playbook</span></a><a class="card" href="explore.html"><b>Explore 教育页</b><span>V7：PC 与 Mobile 截图、原型链接、交互清单</span></a><a class="card" href="handoff.html"><b>Explore 开发需求</b><span>屏占比、全局规范、部件交互说明、图片尺寸清单</span></a><a class="card" href="market.html"><b>线上市场容量</b><span>TAM / SAM / SOM 测算，首年 1 万对目标评估</span></a></div></main></div></body></html>
